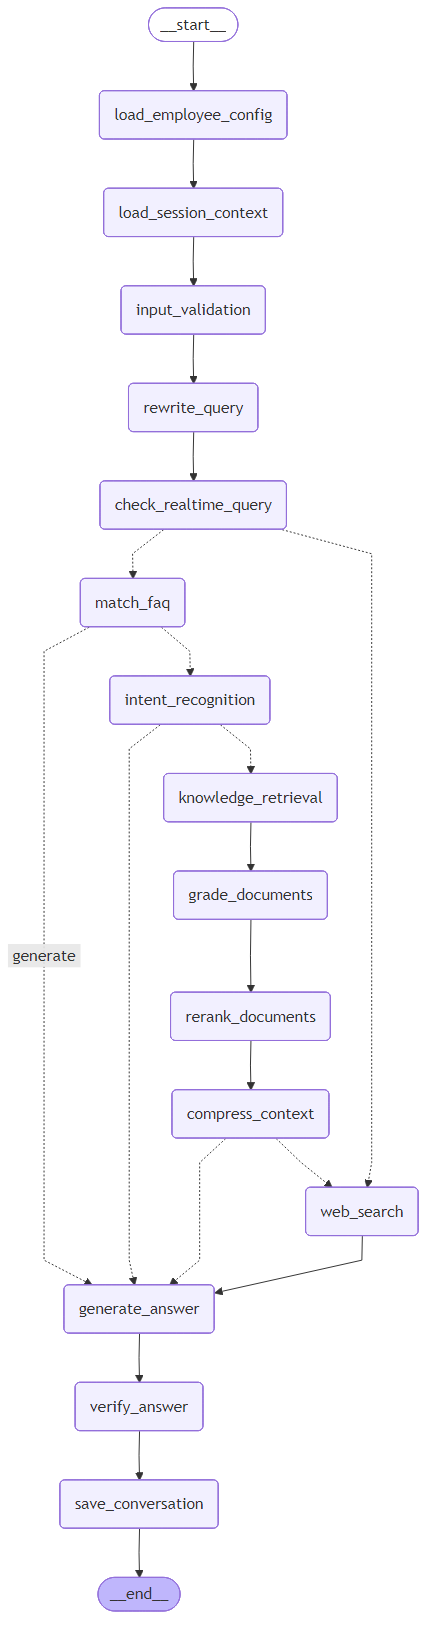
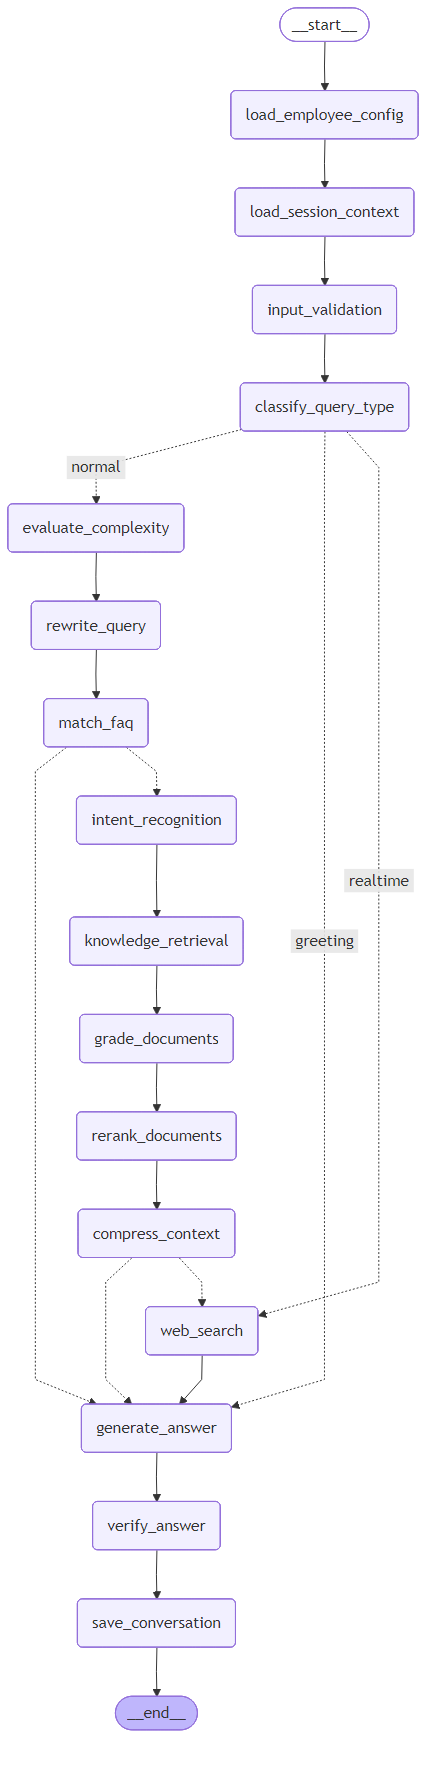
chore: 更新测试脚本默认host配置
- 将stream_client和comprehensive_test默认host改为192.168.8.233:8100
- 删除graph_debug/crag_graph.mmd（已迁移至ai-service/graph_debug/）
- 更新graph_debug输出图示

diff --git a/ai-service/scripts/stream_client.py b/ai-service/scripts/stream_client.py
@@ -14,14 +14,14 @@ OpenAI-style streaming client for /api/chat/v1/chat/completions.
 
 【指定服务器】
   # 本地开发服务器
-  python ai-service/scripts/stream_client.py --host http://localhost:8000 --query "你好"
+  python ai-service/scripts/stream_client.py --host http://192.168.8.233:8100 --query "你好"
 
   # 生产服务器
   python ai-service/scripts/stream_client.py --host http://192.168.8.233:8100 --query "你好"
 
 【指定员工/用户/会话】
   python ai-service/scripts/stream_client.py \\
-    --host http://localhost:8000 \\
+    --host http://192.168.8.233:8100 \\
     --employee_id 29 \\
     --user_id 3 \\
     --session_id sess_4_3_29 \\
@@ -29,7 +29,7 @@ OpenAI-style streaming client for /api/chat/v1/chat/completions.
 
 【完整示例】
   # 知识库问答
-  python ai-service/scripts/stream_client.py --query "密码学课程的两个主要分支是什么？"
+  python ai-service/scripts/stream_client.py --query "介绍集合的概念"
 
   # 实时信息查询（自动触发联网搜索）
   python ai-service/scripts/stream_client.py --query "北京天气咋样"
@@ -40,7 +40,7 @@ OpenAI-style streaming client for /api/chat/v1/chat/completions.
 =======
 默认参数
 =======
-  --host           http://localhost:8000
+  --host           http://192.168.8.233:8100
   --employee_id    29
   --user_id        3
   --session_id     sess_4_3_29
@@ -247,7 +247,7 @@ def main():
   %(prog)s --extra-body '{"team_id": "4", "user_id": "46935014", "employee_id": "29"}' --query "你好"
         """
     )
-    parser.add_argument("--host", default="http://192.168.8.233:8100", help="Base host (including port), 默认: http://localhost:8000")
+    parser.add_argument("--host", default="http://192.168.8.233:8100", help="Base host (including port), 默认: http://192.168.8.233:8100")
     parser.add_argument("--employee_id", default="29", help="Employee ID, 默认: 29")
     parser.add_argument("--user_id", default="3", help="User ID, 默认: 3")
     parser.add_argument("--session_id", default="sess_4_3_29", help="Session ID, 默认: sess_4_3_29")

diff --git a/ai-service/scripts/comprehensive_test.py b/ai-service/scripts/comprehensive_test.py
@@ -50,7 +50,7 @@
 =======================
 默认参数
 =======================
-  --host           http://localhost:8000
+  --host           http://192.168.8.233:8100
   --employee_id    financial_analyst
   --user_id        user_20260110
   --session_id     sess_financial_analyst_fdaf

diff --git a/ai-service/graph_debug/generate_command.md b/ai-service/graph_debug/generate_command.md
@@ -2,3 +2,5 @@ cd D:\zenking_work\metahuman_work\ZengKingMorphe\ai-service\graph_debug
 
 mmdc -i crag_graph.mmd -o output.png
 
+# 在 
+mmdc -i ai-service/graph_debug/crag_graph.mmd -o graph.png
